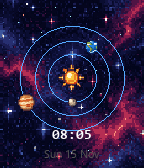
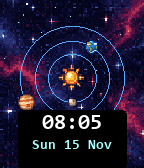
Make digital time larger and date readable on the starfield.
Use LECO/Gothic captions on a dark scrim with accent-colored date text.

Changed region(s): [[0.1111, 0.6548, 0.8889, 1.0]]

diff --git a/src/c/face.c b/src/c/face.c
@@ -233,9 +233,13 @@ static void update_proc(Layer *layer, GContext *ctx) {
     draw_twinkles(ctx, bounds, theme.accent);
   }
 
-  // Scale orbits to the active display (144/200/260).
+  // Scale orbits to the active display (144/200/260). Leave room for captions.
+  int edge_pad = PBL_IF_ROUND_ELSE(14, 8);
+  if (cfg->show_digital || cfg->show_date) {
+    edge_pad += PBL_IF_ROUND_ELSE(10, 6);
+  }
   const int max_r = (bounds.size.w < bounds.size.h ? bounds.size.w : bounds.size.h) / 2
-                    - PBL_IF_ROUND_ELSE(14, 8);
+                    - edge_pad;
   int sec_rx = max_r * 38 / 100;
   int min_rx = max_r * 58 / 100;
   int hour_rx = max_r * 82 / 100;
@@ -270,22 +274,44 @@ static void update_proc(Layer *layer, GContext *ctx) {
     draw_bitmap_centered(ctx, s_mercury, sec_pt);
   }
 
-  // Keep captions inside the circular bezel on Round 2 / Time Round.
+  // Captions: large time + high-contrast date. Scrim keeps them readable on nebula.
 #if defined(PBL_ROUND)
-  const int time_y = bounds.size.h - 56;
-  const int date_y = bounds.size.h - 34;
+  const int caption_h = (cfg->show_digital ? 36 : 0) + (cfg->show_date ? 22 : 0) + 8;
+  const int caption_top = bounds.size.h - caption_h - 18;
+  const int time_y = caption_top;
+  const int date_y = cfg->show_digital ? caption_top + 34 : caption_top + 4;
+  GFont time_font = fonts_get_system_font(FONT_KEY_LECO_32_BOLD_NUMBERS);
+  GFont date_font = fonts_get_system_font(FONT_KEY_GOTHIC_18_BOLD);
+#elif defined(PBL_PLATFORM_EMERY)
+  const int caption_h = (cfg->show_digital ? 34 : 0) + (cfg->show_date ? 20 : 0) + 6;
+  const int caption_top = bounds.size.h - caption_h - 4;
+  const int time_y = caption_top;
+  const int date_y = cfg->show_digital ? caption_top + 32 : caption_top + 2;
+  GFont time_font = fonts_get_system_font(FONT_KEY_LECO_32_BOLD_NUMBERS);
+  GFont date_font = fonts_get_system_font(FONT_KEY_GOTHIC_18_BOLD);
 #else
-  const int time_y = bounds.size.h - 40;
-  const int date_y = bounds.size.h - 22;
+  const int caption_h = (cfg->show_digital ? 28 : 0) + (cfg->show_date ? 18 : 0) + 4;
+  const int caption_top = bounds.size.h - caption_h - 2;
+  const int time_y = caption_top;
+  const int date_y = cfg->show_digital ? caption_top + 26 : caption_top + 1;
+  GFont time_font = fonts_get_system_font(FONT_KEY_GOTHIC_28_BOLD);
+  GFont date_font = fonts_get_system_font(FONT_KEY_GOTHIC_18_BOLD);
 #endif
+
+  if (cfg->show_digital || cfg->show_date) {
+    graphics_context_set_fill_color(ctx, GColorBlack);
+    graphics_fill_rect(ctx,
+                       GRect(bounds.size.w / 8, caption_top - 2,
+                             bounds.size.w * 3 / 4, caption_h + 4),
+                       4, GCornersAll);
+  }
 
   if (cfg->show_digital) {
     char time_buf[16];
     format_time(time_buf, sizeof(time_buf));
     graphics_context_set_text_color(ctx, theme.text);
-    graphics_draw_text(ctx, time_buf,
-                       fonts_get_system_font(FONT_KEY_GOTHIC_18_BOLD),
-                       GRect(0, time_y, bounds.size.w, 22),
+    graphics_draw_text(ctx, time_buf, time_font,
+                       GRect(0, time_y, bounds.size.w, 36),
                        GTextOverflowModeTrailingEllipsis,
                        GTextAlignmentCenter, NULL);
   }
@@ -293,10 +319,10 @@ static void update_proc(Layer *layer, GContext *ctx) {
   if (cfg->show_date) {
     char date_buf[24];
     format_date(date_buf, sizeof(date_buf));
-    graphics_context_set_text_color(ctx, theme.dim);
-    graphics_draw_text(ctx, date_buf,
-                       fonts_get_system_font(FONT_KEY_GOTHIC_14),
-                       GRect(0, date_y, bounds.size.w, 18),
+    // Use accent (bright) — theme.dim vanishes on the starfield.
+    graphics_context_set_text_color(ctx, theme.accent);
+    graphics_draw_text(ctx, date_buf, date_font,
+                       GRect(0, date_y, bounds.size.w, 22),
                        GTextOverflowModeTrailingEllipsis,
                        GTextAlignmentCenter, NULL);
   }

diff --git a/tools/generate_store_screenshots.py b/tools/generate_store_screenshots.py
@@ -313,11 +313,34 @@ def render(w: int, h: int, scene: dict) -> Image.Image:
             orbit_point(cx, cy, sec_rx, sec_ry, second_angle(scene["second"])),
         )
 
-    # Redraw text atop sprites
+    # Redraw text atop sprites — large time + bright date on a dark scrim
     draw = ImageDraw.Draw(canvas)
-    time_y = h - 56 if is_round else h - 40
-    date_y = h - 34 if is_round else h - 22
-    if scene["show_digital"]:
+    show_time = scene["show_digital"]
+    show_date = scene["show_date"]
+    if is_round:
+        time_size, date_size = 28, 16
+        pad_bottom = 18
+    elif w >= 200:
+        time_size, date_size = 26, 15
+        pad_bottom = 4
+    else:
+        time_size, date_size = 22, 14
+        pad_bottom = 2
+
+    block_h = (time_size + 6 if show_time else 0) + (date_size + 4 if show_date else 0) + 8
+    caption_top = h - block_h - pad_bottom
+    if show_time or show_date:
+        scrim = [
+            w // 8,
+            caption_top - 2,
+            w * 7 // 8,
+            caption_top + block_h + 2,
+        ]
+        draw.rounded_rectangle(scrim, radius=4, fill=BLACK)
+
+    time_y = caption_top
+    date_y = caption_top + (time_size + 4 if show_time else 4)
+    if show_time:
         hour = scene["hour"] % 12
         if hour == 0:
             hour = 12
@@ -327,18 +350,18 @@ def render(w: int, h: int, scene: dict) -> Image.Image:
             time_str,
             time_y,
             w,
-            font(max(14, w // 11), bold=True),
+            font(time_size, bold=True),
             theme["text"],
         )
 
-    if scene["show_date"]:
+    if show_date:
         draw_text_center(
             draw,
             scene.get("date", ""),
             date_y,
             w,
-            font(max(11, w // 14)),
-            theme["dim"],
+            font(date_size, bold=True),
+            theme["accent"],
         )
 
     # Soft circular crop for Round 2 store shots (no bezel chrome).

diff --git a/STORE.md b/STORE.md
@@ -40,6 +40,12 @@ Designed for Pebble Time 2 and Pebble Round 2; also runs on Pebble Time / Time S
 Solar system watchface — planets keep the hours, minutes, and seconds around a PixelLab sun.
 ```
 
+## Release notes (v1.1.1)
+
+```
+Larger digital time (LECO) and high-contrast date on a dark scrim so captions stay readable on the starfield.
+```
+
 ## Release notes (v1.1.0)
 
 ```
